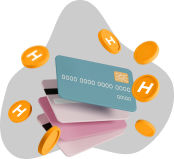
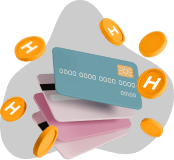
Instant deposit button on Swap cards + fix img

diff --git a/data/cards-raw.js b/data/cards-raw.js
@@ -49,7 +49,7 @@ export default {
                 },
                 tags: ['Exchange'],
                 action: '/topup/card',
-                buttonLabel: 'Buy BEE',
+                buttonLabel: 'Buy BEE with card',
                 ru: {
                     description: 'BEE — токен крипто-кошелька Honee. Предоставляет пользователям множество возможностей для заработка.',
                     caption: 'Купить',
@@ -68,9 +68,11 @@ export default {
                 },
                 tags: ['Staking'],
                 action: `/stake/19`,
+                buttonLabel: 'Earn with staking',
                 ru: {
                     description: 'Стейкуйте BEE на 1, 2 или 3 года, чтобы получать ежедневные награды. Чем больше период, тем больше вы зарабатываете!',
                     caption: 'Стейкинг',
+                    buttonLabel: 'Заработать на стейкинге',
                 },
             },
             {
@@ -85,9 +87,11 @@ export default {
                 },
                 tags: ['Farming'],
                 action: `/farm/BEE/USDTE`,
+                buttonLabel: 'Earn with farming',
                 ru: {
                     description: 'Добавьте свои BEE и USDTE в пул ликвидности, чтобы получать ежедневные вознаграждения.',
                     caption: 'Фарминг',
+                    buttonLabel: 'Заработать на фарминге',
                 },
             },
             {
@@ -102,9 +106,11 @@ export default {
                 },
                 tags: ['Farming'],
                 action: `/farm/BEE/USDTBSC`,
+                buttonLabel: 'Earn with farming',
                 ru: {
                     description: 'Добавьте свои BEE и USDTBSC в пул ликвидности, чтобы получать ежедневные вознаграждения.',
                     caption: 'Фарминг',
+                    buttonLabel: 'Заработать на фарминге',
                 },
             },
             {

diff --git a/pages/index.vue b/pages/index.vue
@@ -115,14 +115,14 @@ export default {
                 {{ $td('Earn with BEE', `action.category-bee`) }}
             </h2>
             <div class="u-grid u-grid--vertical-margin">
-                <div class="u-cell u-cell--medium--1-2 u-cell--large--1-3 card-wrap-cell">
+                <!--<div class="u-cell u-cell--medium--1-2 u-cell--large--1-3 card-wrap-cell">
                     <CardPremium/>
+                </div>-->
+                <div class="u-cell u-cell--medium--1-2 u-cell--large--1-3 card-wrap-cell" v-for="card in earnBeeList" :key="card.action">
+                    <Card :card="card" v-if="card.action"/>
                 </div>
                 <div class="u-cell u-cell--medium--1-2 u-cell--large--1-3 card-wrap-cell">
                     <CardSwHold class="card--extended-card card--bee-hold" coin="BEE" :is-small="true"/>
-                </div>
-                <div class="u-cell u-cell--medium--1-2 u-cell--large--1-3 card-wrap-cell" v-for="card in earnBeeList" :key="card.action">
-                    <Card :card="card" v-if="card.action"/>
                 </div>
                 <!--<div class="u-cell u-cell--medium--1-2 u-cell--large--1-3 card-wrap-cell">
                     <div class="card card--action card--invert card--twitter card__content--small">

diff --git a/assets/less/style.less b/assets/less/style.less
@@ -237,7 +237,7 @@
 }
 .card--bee-buy {
     background: url(../img/card-bee-buy@2x.png) center top 43px no-repeat #3F9C37;
-    background-size: 174px 159px;
+    background-size: 174px 160px;
 }
 .card--bee-farming {
     background: url(../img/card-bee-farming@2x.png) center top 70px no-repeat #E2B543;
@@ -249,7 +249,7 @@
 }
 .card--bee-premium {
     background: url(../img/card-bee-premium@2x.png) center top 56px no-repeat #84389E;
-    background-size: 246px 152px;
+    background-size: 210px 152px;
 }
 .card--bee-hold {
     background: url(../img/card-bee-hold@2x.png) center top 51px no-repeat #0061F5 !important;
@@ -276,6 +276,7 @@
 //}
 .card__content--small {padding: 16px;}
 .card__content--mini {padding-block: 10px;}
+.card__content--instant-block {margin: 16px 0 0 0; padding: 16px 0 0 0;border-top: 1px solid var(--color-divider);}
 
 
 .card__head-row {

diff --git a/lang/ru.js b/lang/ru.js
@@ -246,7 +246,7 @@ export default {
     },
     referral: {
         'header-button': 'Реф. ссылка',
-        'invite-friend': 'Реферальная ссылка',
+        'invite-friend': 'Реф. ссылка',
         'title': 'Зарабатывай с Honee',
         'activate-button': 'Активировать реферальную ссылку',
         'deactivate-button': 'Деактивировать реферальную ссылку',

diff --git a/components/Swap.vue b/components/Swap.vue
@@ -410,5 +410,10 @@ export default {
                 {{ $td('Close', 'form.success-close-button') }}
             </button>
         </Modal>
+        <div class="card__content--instant-block">
+            <nuxt-link class="button button--full button--ghost-main" :to="$i18nGetPreferredPath('/topup/instant')">
+                {{ $td('+ Instant deposit', 'index.topup-instant') }}
+            </nuxt-link>
+        </div>
     </div>
 </template>
